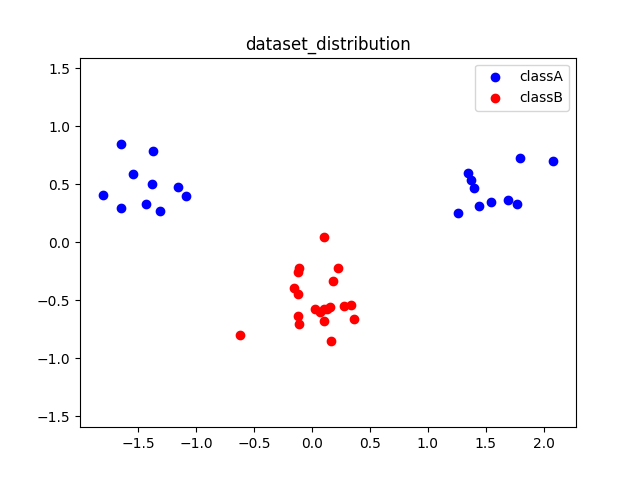
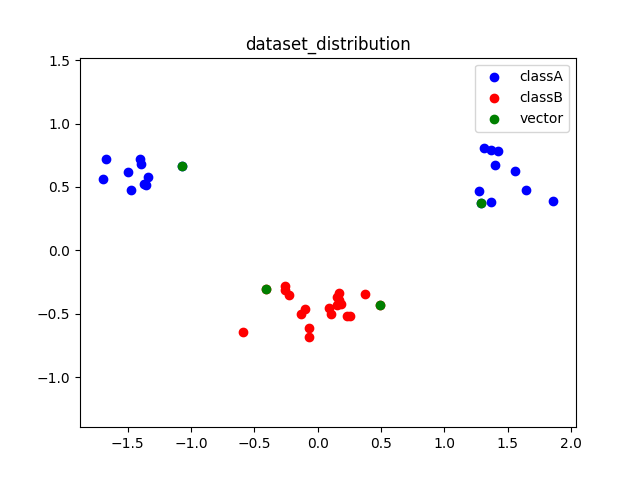
1

diff --git a/Lab2/Lab2.py b/Lab2/Lab2.py
@@ -24,10 +24,10 @@ B_Y_CENTER = -0.5
 
 STANDARD_DEVIATION = 0.2
 
-C = 10
+C = np.inf
 
 kernels = [Linear_kernel, Polynomial_kernel, RBF_kernel]
-kernel = kernels[0]
+kernel = kernels[1]
 # generate the data
 
 # randn generates an array of shape (d0, d1, ..., dn),
@@ -44,15 +44,6 @@ permute = list(range(N))
 random.shuffle(permute)
 inputs = inputs[permute, :]
 targets = targets[permute]
-
-# show the data
-plt.scatter([p[0] for p in classA], [p[1] for p in classA], c='blue', label='classA')
-plt.scatter([p[0] for p in classB], [p[1] for p in classB], c='red', label='classB')
-plt.legend()
-plt.title('dataset_distribution')
-plt.axis('equal')  # Force same scale on both axes
-plt.savefig('dataset_distribution.png')  # Save a copy in a file
-# plt.show()  # Show the plot on the screen
 
 # Pij = t_i t_j K(x_i,x_j)
 # A suitable kernel function
@@ -101,6 +92,12 @@ for i in range(N):
 for i in range(N):
     if alpha[i] < 1e-5:
         alpha[i] = 0
+
+svs = []
+for i in range(N):
+    if 0 < alpha[i] < C - 1e-5:
+        svs.append(inputs[i])
+
 # nonzero structure [0]alpha_i [1]x_i [2]t_i
 print(nonzero)
 
@@ -121,8 +118,19 @@ print("calculate b : " + str(b) + "\n")
 def indicator(new_sample):
     indicate = -b
     for sv in nonzero:
-        indicate += sv[0] * sv[2] * np.dot(sv[1], new_sample)
+        indicate += sv[0] * sv[2] * kernel(sv[1], new_sample)
     return indicate
+
+
+# show the data
+plt.scatter([p[0] for p in classA], [p[1] for p in classA], c='blue', label='classA')
+plt.scatter([p[0] for p in classB], [p[1] for p in classB], c='red', label='classB')
+plt.scatter([p[0] for p in svs], [p[1] for p in svs], c='green', label='vector')
+plt.legend()
+plt.title('dataset_distribution')
+plt.axis('equal')  # Force same scale on both axes
+plt.savefig('dataset_distribution.png')  # Save a copy in a file
+# plt.show()  # Show the plot on the screen
 
 
 # plotting the decision boundary

diff --git a/Lab2/kernels.py b/Lab2/kernels.py
@@ -5,7 +5,7 @@ def Linear_kernel(x, y):
     return np.dot(x, y)
 
 
-def Polynomial_kernel(x, y, p=3):
+def Polynomial_kernel(x, y, p=2):
     return np.power(np.dot(x, y) + 1, p)
 
 
